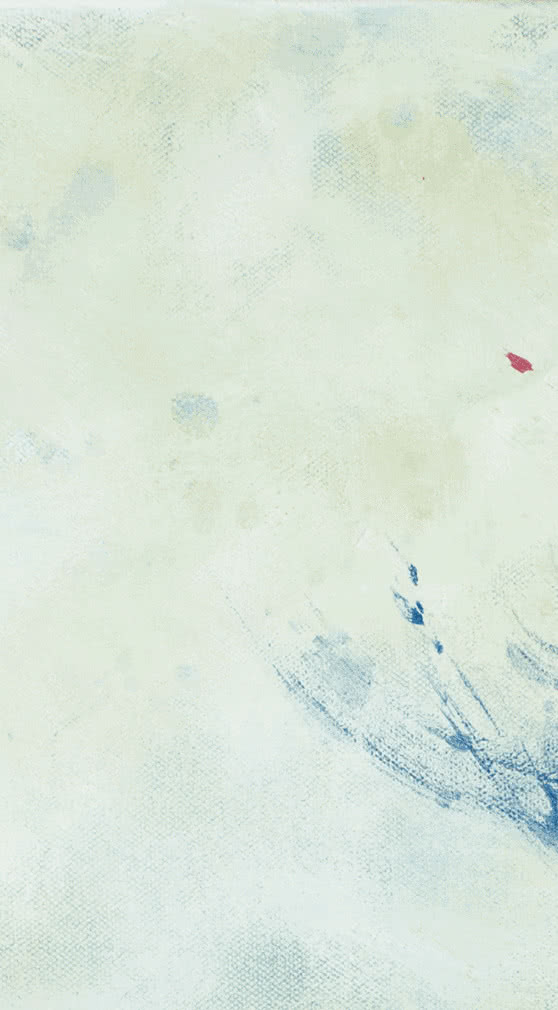
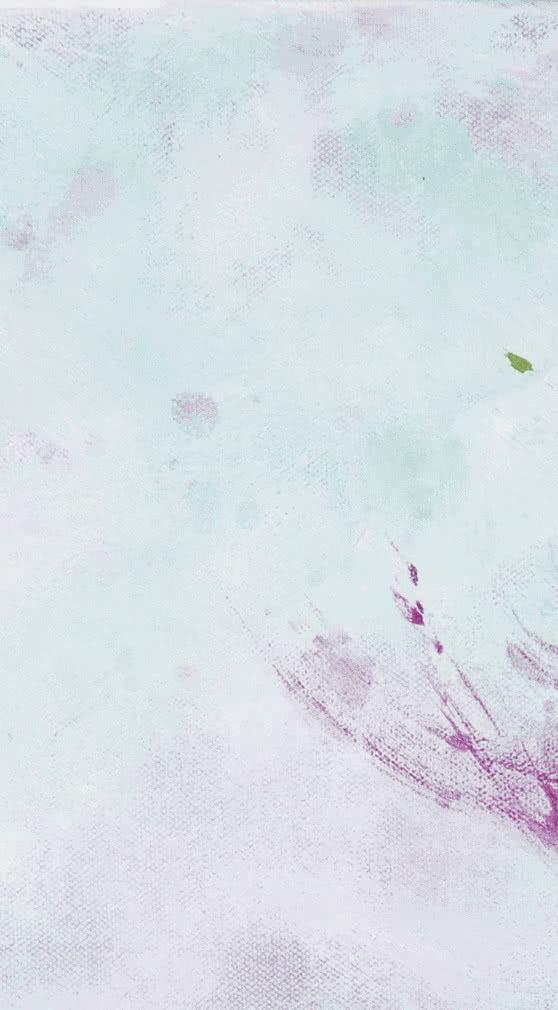
dragon year color

diff --git a/_sass/settings/_settings.scss b/_sass/settings/_settings.scss
@@ -13,7 +13,7 @@ $rtl:                               false;
  * Colors
  */
 
-$brand-color:                       #4b65a0;
+$brand-color:                       #b72b4c;
 $alt-color-lighter:                 #e8ebee;
 $alt-color-light:                   #adb7c3;
 $alt-color:                         #738497;
